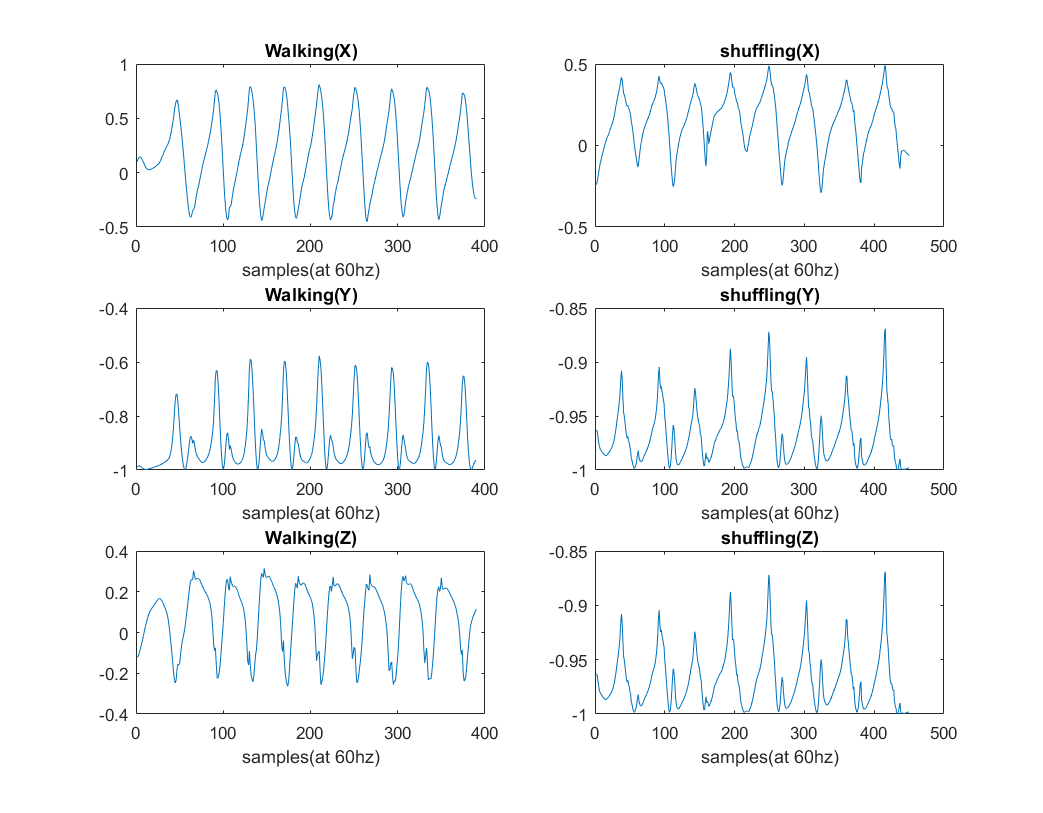
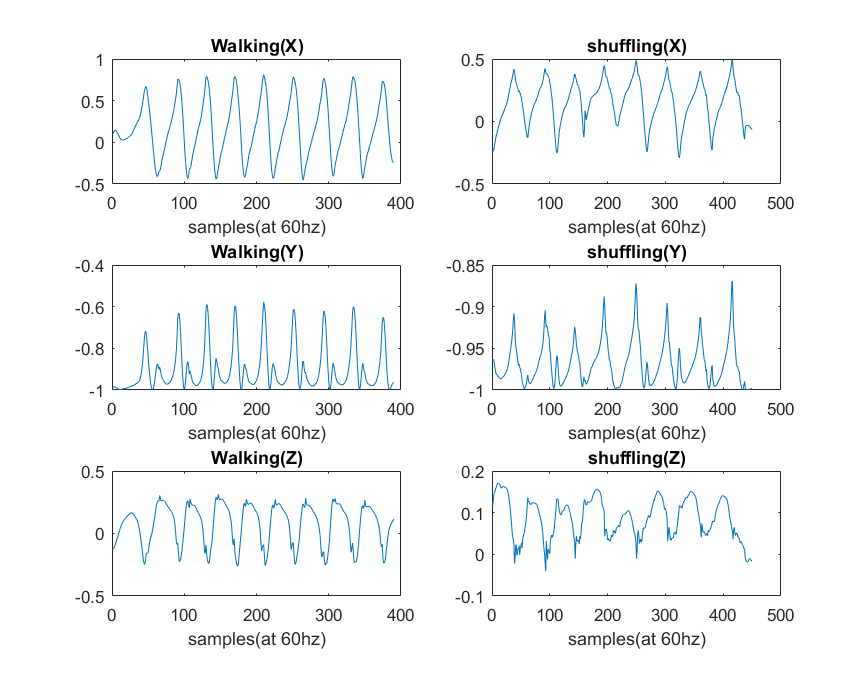
Fix time domain plots

diff --git a/Night5.m b/Night5.m
@@ -92,6 +92,6 @@ plot(walkingZ)
 title('Walking(Z)')
 xlabel('samples(at 60hz)')
 subplot(3,2,6)
-plot(shufflingY)
+plot(shufflingZ)
 title('shuffling(Z)')
 xlabel('samples(at 60hz)')
